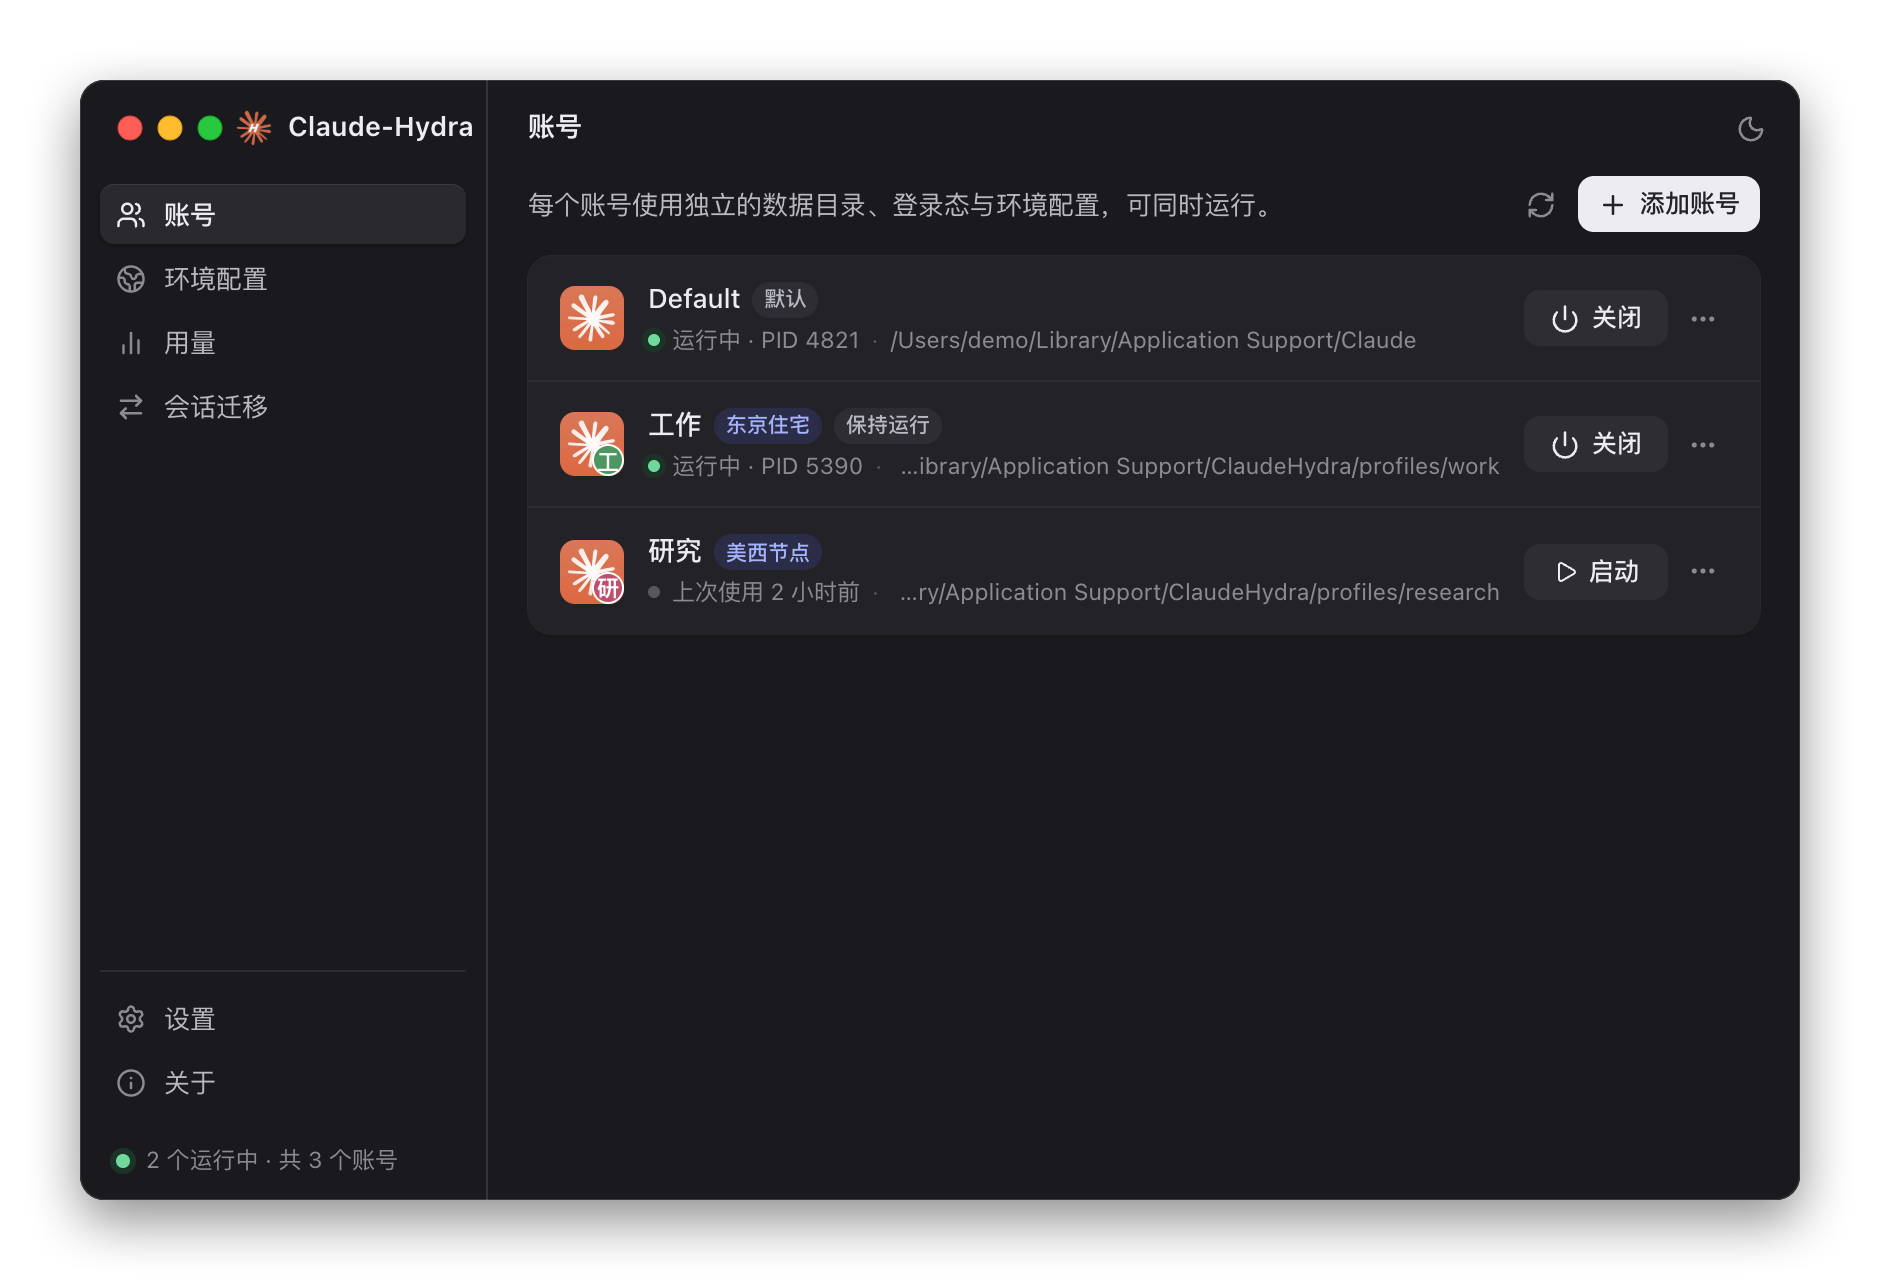
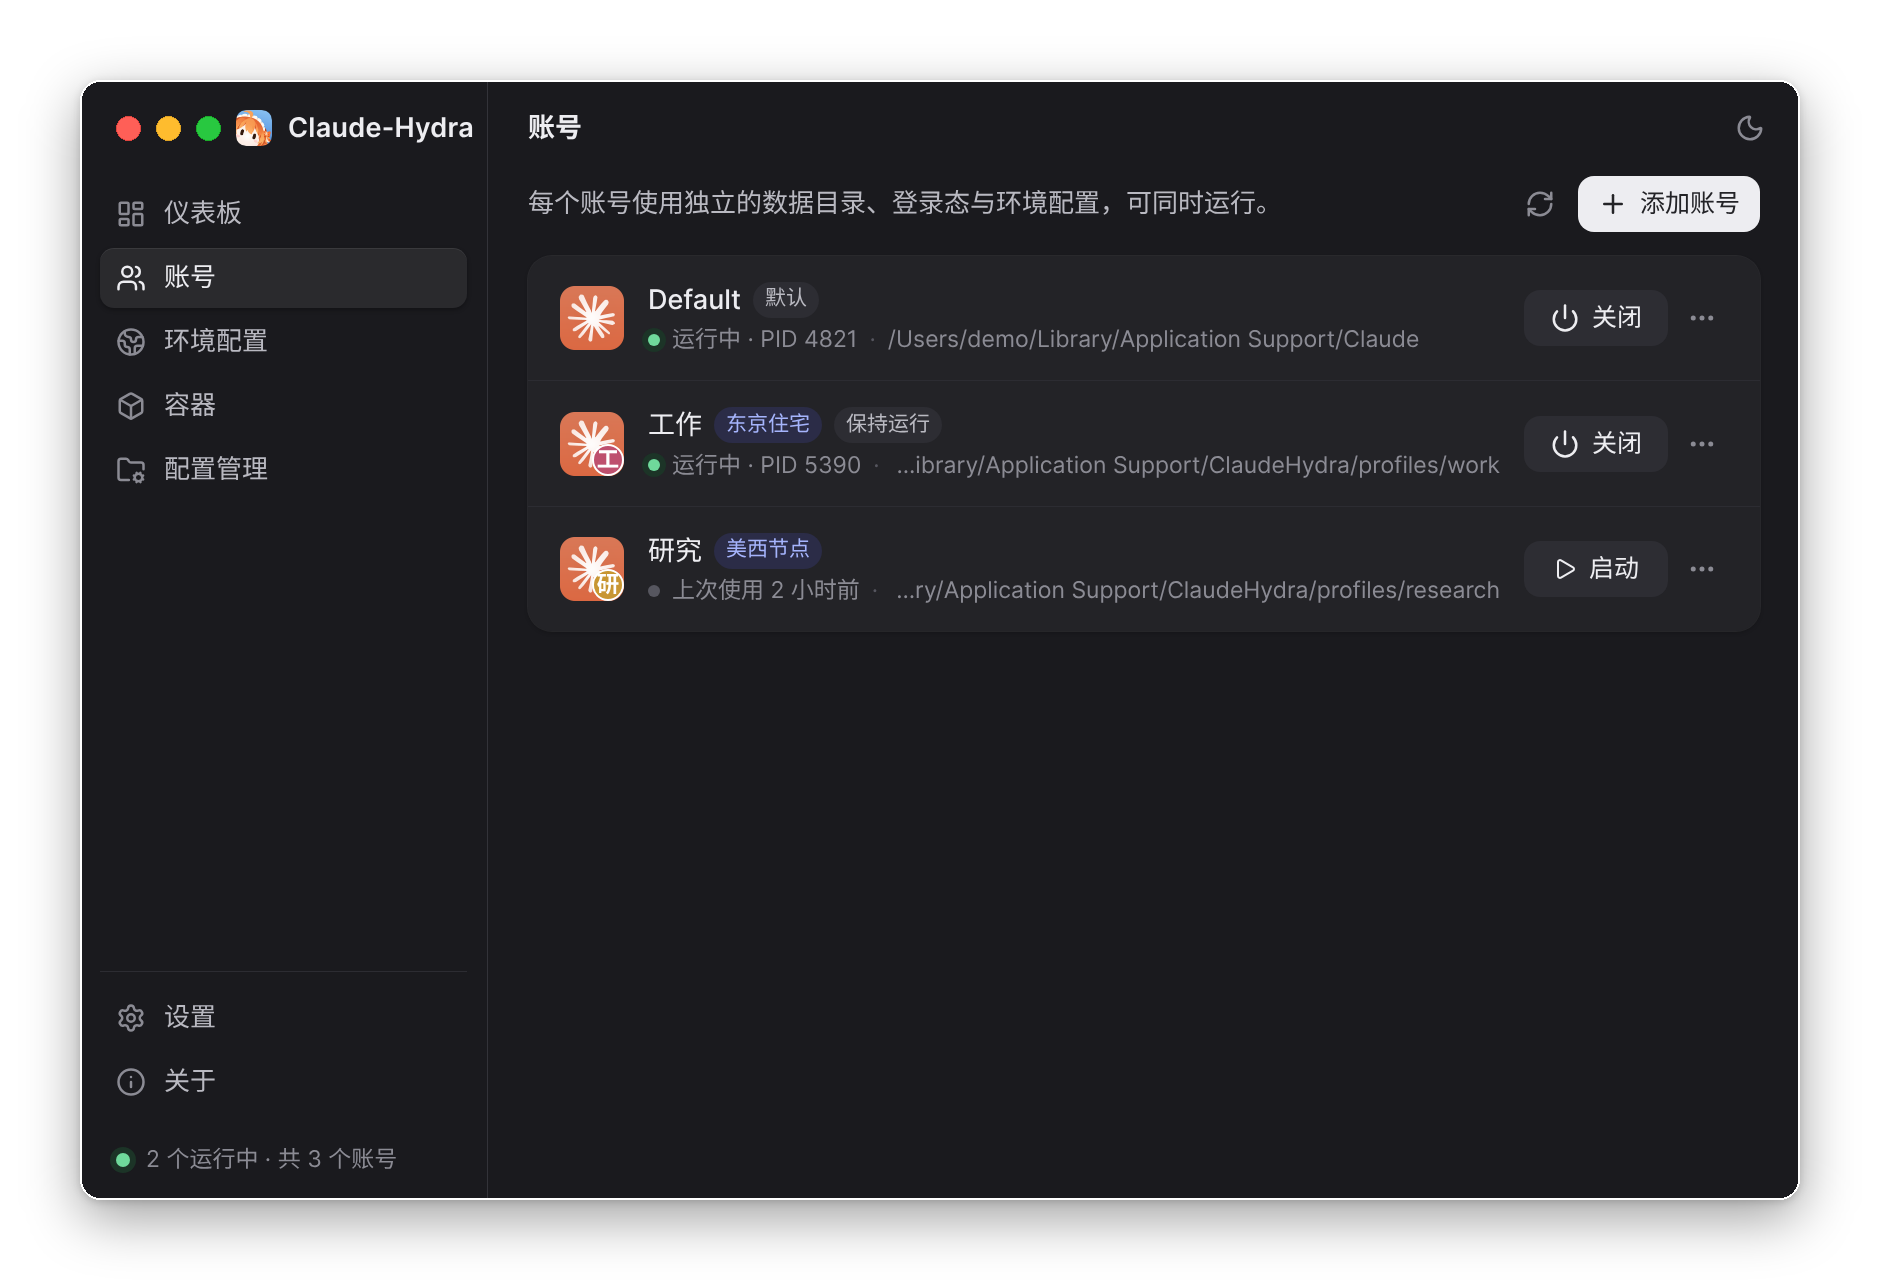
README 截图按当前界面更新 [skip ci]
- 换掉旧的账号、环境配置截图；新增仪表板、容器页面、配置管理与对话视图的截图

diff --git a/README.md b/README.md
@@ -131,7 +131,7 @@ Claude 只看得到本机中继地址；节点的账号密码保存在 Hydra 内
 ## 仪表板与用量统计
 
 <div align="center">
-<img src="docs/images/usage.png" alt="用量统计" width="720">
+<img src="docs/images/dashboard.png" alt="仪表板" width="720">
 </div>
 
 在 **仪表板** 的「桌面账号额度」中点击账号右侧的 **刷新**，读取 Claude 返回的 5 小时、每周以及按模型的周额度（包含同账号在其他设备上的用量）。同一账号 60 秒内不重复请求；配置了节点的账号经节点查询。
@@ -152,9 +152,19 @@ Claude 只看得到本机中继地址；节点的账号密码保存在 Hydra 内
 
 ## 配置管理
 
+<div align="center">
+<img src="docs/images/config.png" alt="配置管理" width="720">
+</div>
+
 左侧 **配置管理** 页以 Claude Code 的数据目录为单位管理会话和配置，不用再去 Finder 里翻文件夹。页面先列出所有位置，按**本机**（`~/.claude`，Windows 为 `%USERPROFILE%\.claude`）、**桌面版账号**（有独立 Claude Code 目录时用它自己的，否则与本机共用）、**容器账号**（容器设置里的 Claude 数据文件夹）分组，显示会话数和最近活动，位置多时可搜索。选中后列表收起到顶部，旁边有 **在 Finder 中显示**（Windows 为资源管理器）和 **切换位置** 按钮。容器账号只在 macOS 上有，其余功能 Windows 同样可用。登录凭据不会被显示、复制或导出。
 
-**会话**：按工作目录分组列出标题、最后活动时间、模型、轮数和大小，可搜索；点标题以对话的形式阅读：你的消息是气泡，Claude 的回复按 Markdown 显示（含表格和代码块），思考与工具调用折叠成一块，展开可看命令、文件改动和结果；链接点击时复制而不打开。勾选后可以：
+**会话**：按工作目录分组列出标题、最后活动时间、模型、轮数和大小，可搜索；点标题以对话的形式阅读：你的消息是气泡，Claude 的回复按 Markdown 显示（含表格和代码块），思考与工具调用折叠成一块，展开可看命令、文件改动和结果；链接点击时复制而不打开。
+
+<div align="center">
+<img src="docs/images/chat.png" alt="以对话形式阅读会话" width="720">
+</div>
+
+勾选后可以：
 
 1. **复制到 / 移动到**其他位置。Claude Code 只在会话原来的工作目录下列出它（`claude --resume`），所以迁移时每个工作目录都要对应到目标那一侧：Hydra 按容器共享的文件夹自动换算（例如 Mac 上的 `/Users/me/code/app` ↔ 容器里的 `/workspace/app`），换算不了的由你指定。只改写记录里的工作目录，对话内容原样保留；目标里已有的会话跳过，不覆盖。移动会把原会话放进来源位置的回收站。
 2. **导出**为 zip，在另一台电脑或另一个位置 **导入**，导入时同样换算工作目录。阅读某个会话时，也可以把它导出为网页（单个 HTML 文件），用浏览器直接打开，样式和 App 里一致，折叠的工具调用可以展开。
@@ -176,6 +186,10 @@ Claude 只看得到本机中继地址；节点的账号密码保存在 Hydra 内
 设计细节见 [docs/claude-config-management.md](docs/claude-config-management.md)。
 
 ## Claude Code 容器（macOS + OrbStack）
+
+<div align="center">
+<img src="docs/images/containers.png" alt="容器页面" width="720">
+</div>
 
 在左侧 **容器** 页新建容器账号：选择一个**带代理节点**的环境，添加要共享的项目文件夹。点容器进入它的页面：项目列表里每个项目可以直接开始 **新会话**，展开后可以 **继续** 最近的会话；要在新目录里开始，点 **新项目**，在共享文件夹里逐级选择。出口检测通过后，终端会在该目录中直接启动 Claude Code，检测不通过则不启动。也可以选 **只打开终端** 自己操作。在 **配置管理** 里阅读容器的会话时，可以点 **在容器中继续** 接着这个会话。Hydra 不内置容器运行时，使用你自己安装的 [OrbStack](https://orbstack.dev)（`docker --context orbstack`）；docker 路径与打开容器用的终端（Terminal.app / iTerm2 / Ghostty）在 **设置 → OrbStack 容器** 中配置。
 
